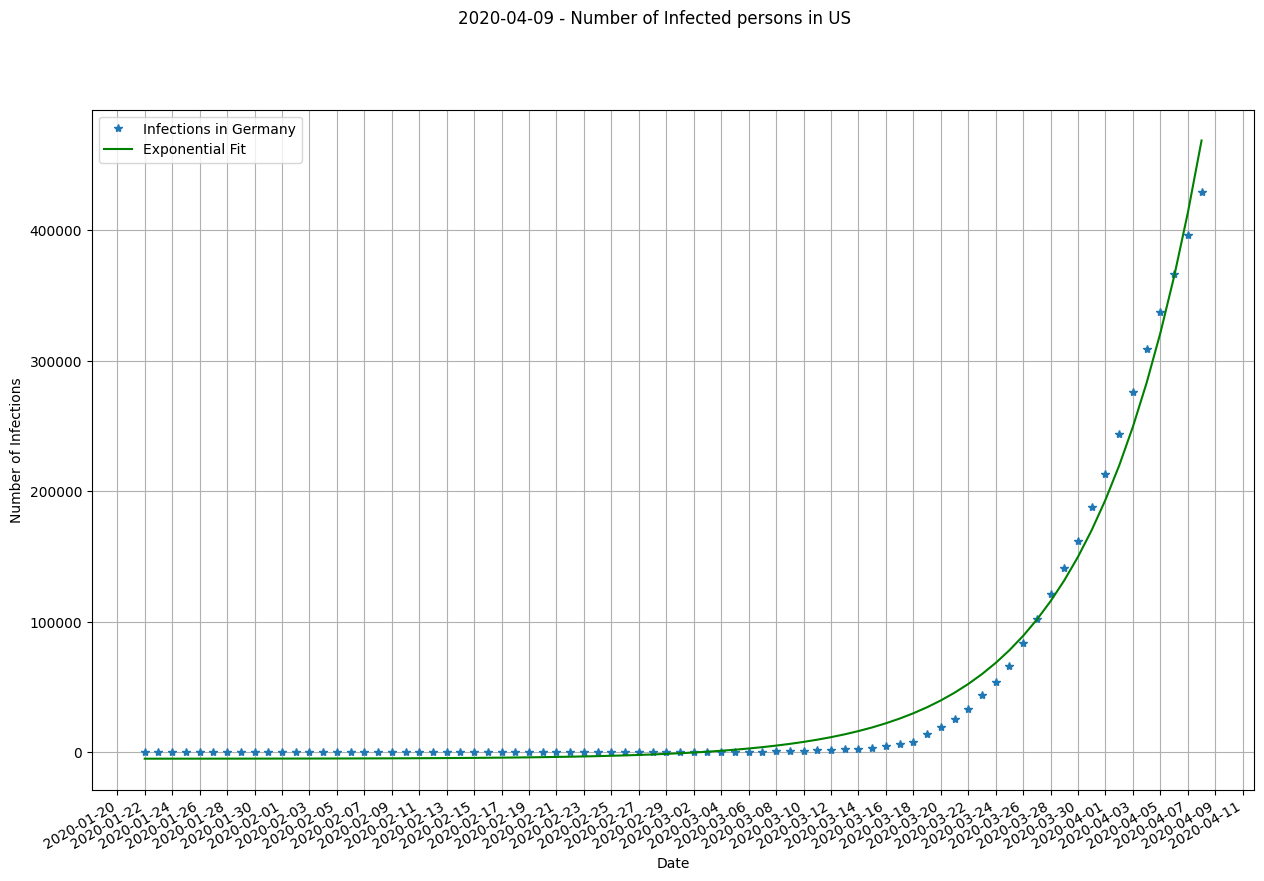
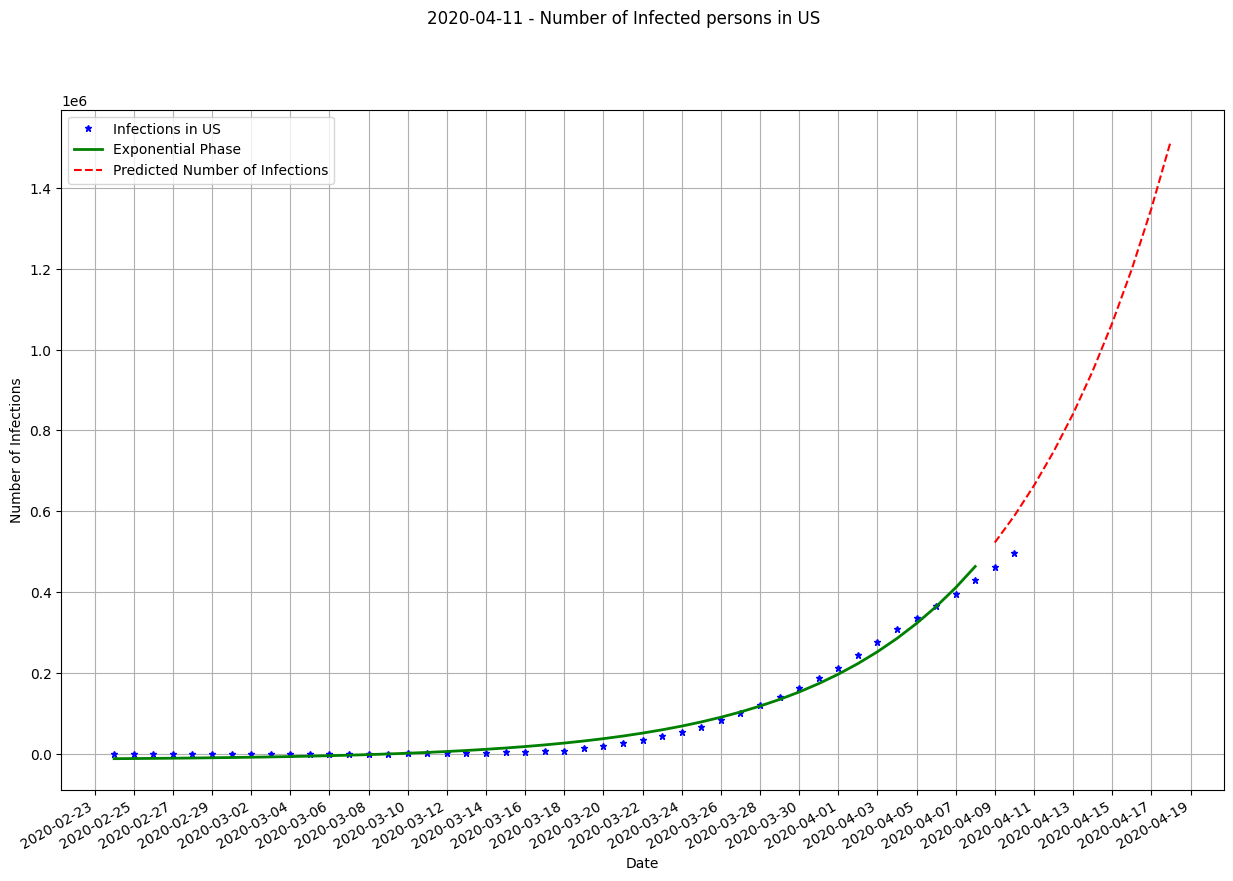
update

diff --git a/main.py b/main.py
@@ -11,13 +11,18 @@ from scipy.optimize import curve_fit
 
 CSV_URL = 'https://raw.githubusercontent.com/CSSEGISandData/COVID-19/master/' \
           'csse_covid_19_data/csse_covid_19_time_series/time_series_covid19_confirmed_global.csv'
-COUNTRIES = ["Germany",
-             "US",
-             "China"]
 
+COUNTRIES = [
+    {"country": "Germany", "min_infections": 15, "duration_exponential_phase": 45},
+    {"country": "US", "min_infections": 15, "duration_exponential_phase": 45},
+]
 
 def exponential(x, a, k, b):
     return a*np.exp(x*k) + b
+
+
+def sigmoidal(x, a, k, b):
+    return a*(1.0 / (1+np.exp(-(x-k)))) + b
 
 
 def get_csv():
@@ -26,7 +31,7 @@ def get_csv():
     return df
 
 
-def plot_exponential(df, country):
+def plot_exponential(df, country, min_infections, duration_exponential_phase):
 
     # filter just one country
     df = df[df["Country/Region"] == country]
@@ -35,25 +40,55 @@ def plot_exponential(df, country):
     df = df.iloc[0]  # convert to pd.Series
 
     # start with first infections
-    df = df[df.values != 0]
+    df = df[df.values > min_infections]
 
     # parse to datetime
     df.index = pd.to_datetime(df.index, format='%m/%d/%y')
 
     # fit to exponential function
-    time_in_days = np.arange(len(df.values))
+    time_in_days = np.arange(duration_exponential_phase)
     poptimal_exponential, pcovariance_exponential = curve_fit(
-        exponential, time_in_days, df.values, p0=[0.3, 0.205, 0]
+        exponential, time_in_days, df.values[:duration_exponential_phase], p0=[1, 0.35, 0]
     )
 
-    # Plot current DATA
+    # Compute prediction
+    prediction_in_days = 10
+    time_in_days_extra = np.arange(
+        start=0, stop=duration_exponential_phase+prediction_in_days
+    )
+    prediction = exponential(time_in_days_extra, *poptimal_exponential).astype(int)
+    df_prediction = pd.Series(prediction)
+
+    # convert index to dates
+    df_prediction.index = pd.date_range(
+        start=df.index[0],
+        periods=duration_exponential_phase + prediction_in_days,
+        closed="left"
+    )
+
     fig, ax = plt.subplots(figsize=(15, 10))
-    ax.plot(df.index, df.values, '*', label="Infections in Germany")
+    # plot real data
     ax.plot(
-         df.index,
+        df.index,
+        df.values,
+        '*',
+        color="blue",
+        markersize=5,
+        label=f"Infections in {country}")
+    # plot exponential phase
+    ax.plot(
+         df.index[:duration_exponential_phase],
          exponential(time_in_days, *poptimal_exponential),
          'g-',
-         label="Exponential Fit"
+         linewidth=2,
+         label="Exponential Phase"
+    )
+    # plot prediction
+    ax.plot(
+        df_prediction.index[duration_exponential_phase:],
+        df_prediction.values[duration_exponential_phase:],
+        'r--',
+        label="Predicted Number of Infections"
     )
     ax.set_xlabel("Date")
     ax.set_ylabel("Number of Infections")
@@ -64,40 +99,6 @@ def plot_exponential(df, country):
     fig.autofmt_xdate()
     fig.savefig(f"plots/exponential_fit_{country}.png", bbox_inches='tight')
 
-    # Compute prediction
-    prediction_in_days = 10
-    time_in_days = np.arange(
-        start=len(df.values), stop=len(df.values)+prediction_in_days
-    )
-    prediction = exponential(time_in_days, *poptimal_exponential).astype(int)
-    df_prediction = pd.Series(prediction)
-
-    # convert index to dates
-    df_prediction.index = pd.date_range(
-        df.index[-1], periods=prediction_in_days + 1, closed="right"
-    )
-
-    with pd.option_context('display.max_rows', None, 'display.max_columns', None):
-        print(df_prediction)
-
-    # Plot prediction
-    fig, ax = plt.subplots(figsize=(15, 10))
-    ax.plot(df.index, df.values, '*', label=f"Infections in {country}")
-    ax.plot(
-        df_prediction.index,
-        df_prediction.values,
-        'r--',
-        label="Predicted Number of Infections"
-    )
-    ax.set_xlabel("Date")
-    ax.set_ylabel("Number of Infections")
-    ax.legend()
-    ax.grid()
-    ax.xaxis.set_major_locator(mdates.DayLocator(interval=2))
-    fig.suptitle(f"{date.today()} - Number of Infected persons in {country} - 10 day Extrapolation")
-    fig.autofmt_xdate()
-    fig.savefig(f"plots/exponential_extrapolation_{country}.png", bbox_inches='tight')
-
 
 if __name__ == '__main__':
 
@@ -106,11 +107,8 @@ if __name__ == '__main__':
 
     df = get_csv()
 
-    for country in COUNTRIES:
-
-        try:
-            plot_exponential(df, country)
-        except:
-            print(f"Could not plot exponential curve for Country {country}")
-
-
+    for country_info in COUNTRIES:
+        plot_exponential(df,
+                         country_info["country"],
+                         country_info["min_infections"],
+                         country_info["duration_exponential_phase"])
